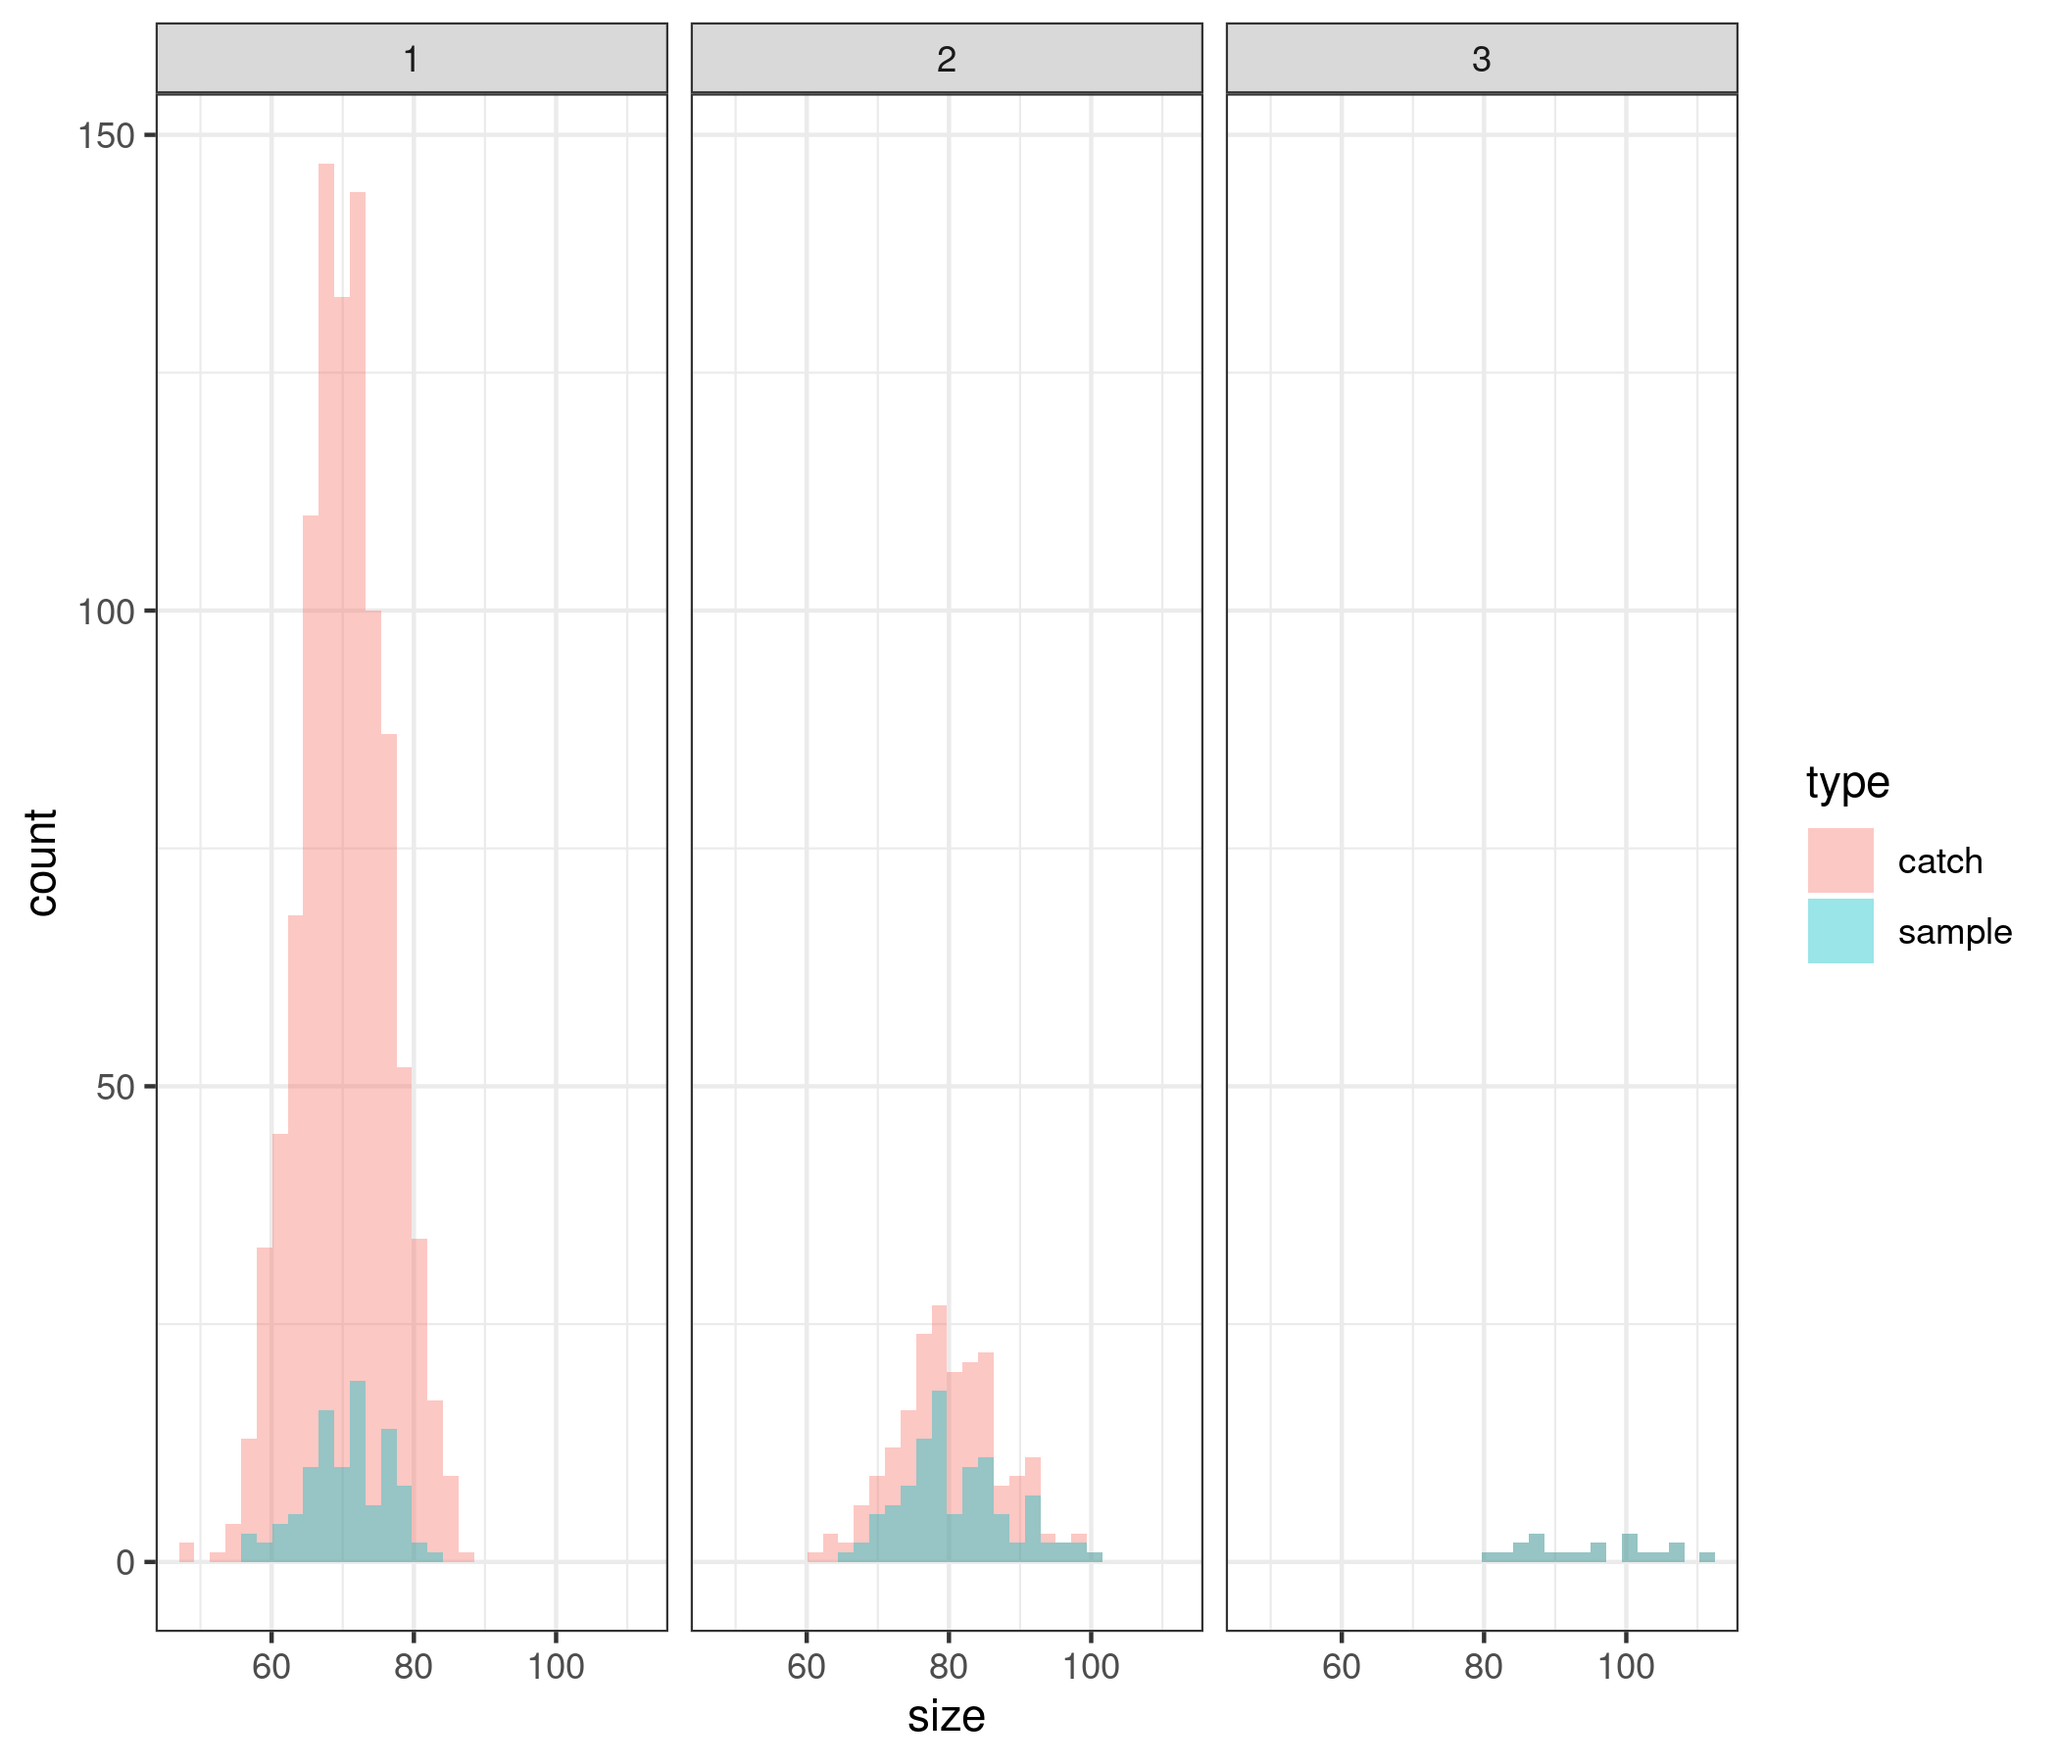
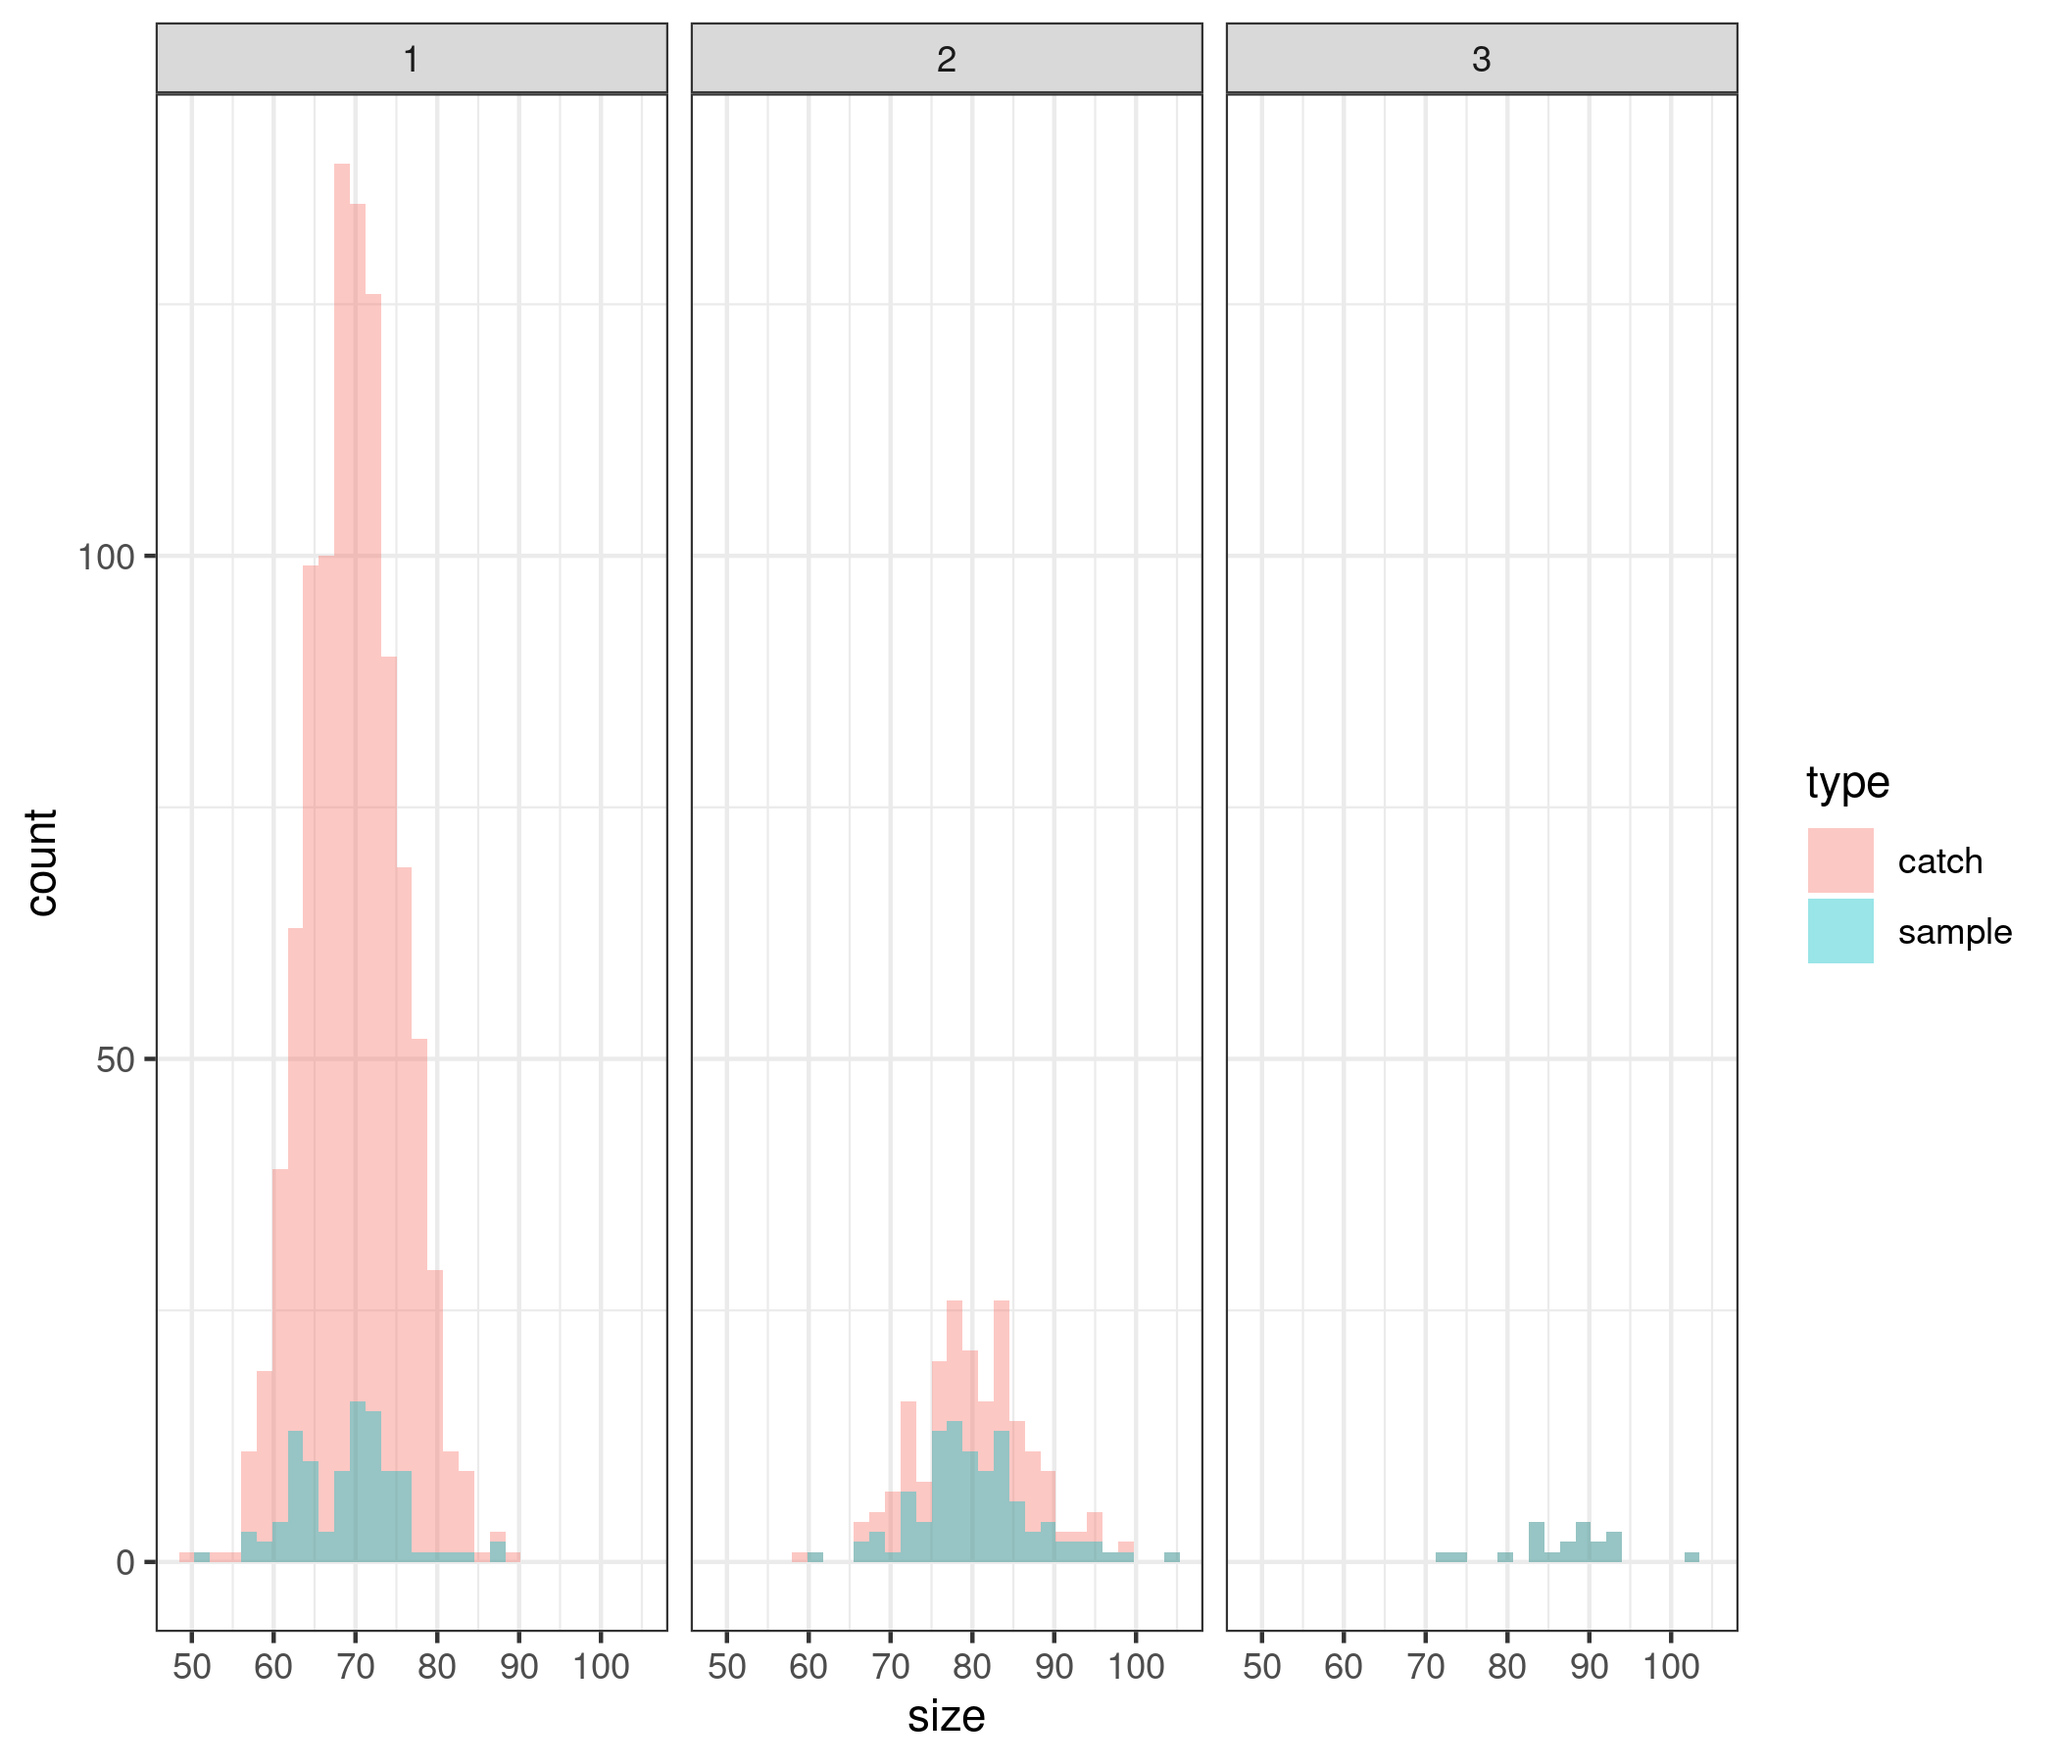
Update raising

diff --git a/4_Training_material/03_LBSPR_case_study_Dorado.html b/4_Training_material/03_LBSPR_case_study_Dorado.html
@@ -94,10 +94,24 @@ class: center, middle, inverse, title-slide
 # Exercise 2: size composition raising
 
 .pull-left[
-&lt;img src="03_LBSPR_case_study_Dorado_files/figure-html/unnamed-chunk-1-1.png" width="80%" style="display: block; margin: auto;" /&gt;
+&lt;img src="03_LBSPR_case_study_Dorado_files/figure-html/unnamed-chunk-1-1.png" width="100%" style="display: block; margin: auto;" /&gt;
 ]
 .pull-right[
-&lt;img src="03_LBSPR_case_study_Dorado_files/figure-html/unnamed-chunk-2-1.png" width="80%" style="display: block; margin: auto;" /&gt;
+
+]
+
+---
+
+# Exercise 2: size composition raising
+
+.pull-left[
+&lt;img src="03_LBSPR_case_study_Dorado_files/figure-html/unnamed-chunk-2-1.png" width="100%" style="display: block; margin: auto;" /&gt;
+]
+
+--
+
+.pull-right[
+&lt;img src="03_LBSPR_case_study_Dorado_files/figure-html/unnamed-chunk-3-1.png" width="100%" style="display: block; margin: auto;" /&gt;
 ]
 
 [Script `1_Scripts/03-2_LBSPR_size_composition_raising.R`](../1_Scripts/03-2_LBSPR_size_composition_raising.R)
